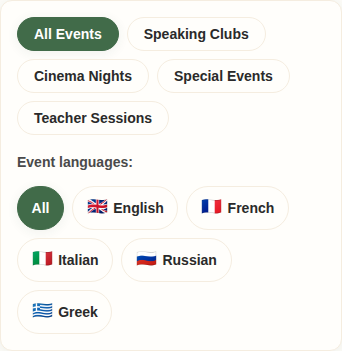
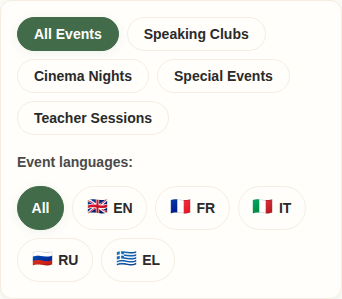
Event language filter: add-to-selection behaviour and compact mobile chips
- Update preset-to-custom transition logic in calendar.js so clicking a language chip when on 'My languages' toggles relative to stored My languages list
- Return to 'My languages' preset state when custom selection matches saved list
- Render compact flag + 2-letter uppercase code for mobile viewports (max-width: 640px)
- Extend scripts/test_event_filter.js with computeNextSelection transition tests
- Ensure zero horizontal scroll and fits in <= 2 rows at 390px viewport

diff --git a/shared/calendar/calendar.js b/shared/calendar/calendar.js
@@ -141,6 +141,43 @@
     return 'all';
   }
 
+  function areArraysEqual(arr1, arr2) {
+    if (!Array.isArray(arr1) || !Array.isArray(arr2)) return false;
+    if (arr1.length !== arr2.length) return false;
+    const s1 = [...arr1].sort();
+    const s2 = [...arr2].sort();
+    return s1.every((val, idx) => val === s2[idx]);
+  }
+
+  function computeNextSelection(currentSelection, clickedCode, storedMyLangs, myLangsExplicit) {
+    let baseLangs = [];
+    if (currentSelection === 'mine' && myLangsExplicit && Array.isArray(storedMyLangs) && storedMyLangs.length > 0) {
+      baseLangs = [...storedMyLangs];
+    } else if (Array.isArray(currentSelection)) {
+      baseLangs = [...currentSelection];
+    } else {
+      // 'all' preset or non-explicit 'mine'
+      return [clickedCode];
+    }
+
+    const idx = baseLangs.indexOf(clickedCode);
+    if (idx !== -1) {
+      baseLangs.splice(idx, 1);
+    } else {
+      baseLangs.push(clickedCode);
+    }
+
+    if (baseLangs.length === 0) {
+      return myLangsExplicit ? 'mine' : 'all';
+    }
+
+    if (myLangsExplicit && areArraysEqual(baseLangs, storedMyLangs)) {
+      return 'mine';
+    }
+
+    return baseLangs;
+  }
+
   function resolveSelection(selection, storedMyLangs, myLangsExplicit) {
     if (selection === 'all') return 'all';
     if (selection === 'mine') {
@@ -407,7 +444,8 @@
       const flag = LANG_FLAGS[code] || '';
       const localizedName = getLocalizedLangName(code);
       btn.setAttribute('aria-label', t('lang_chip_aria', { lang: localizedName }));
-      btn.innerHTML = `<span class="chip-flag" aria-hidden="true">${flag}</span> ${escapeHtml(localizedName)}`;
+      btn.setAttribute('title', localizedName);
+      btn.innerHTML = `<span class="chip-flag" aria-hidden="true">${flag}</span> <span class="chip-label-full">${escapeHtml(localizedName)}</span><span class="chip-label-short">${code.toUpperCase()}</span>`;
 
       btn.addEventListener('click', () => {
         toggleLanguageChip(code);
@@ -426,29 +464,9 @@
   }
 
   function toggleLanguageChip(code) {
-    let currentCustom = [];
-    if (Array.isArray(selectedLangSelection)) {
-      currentCustom = [...selectedLangSelection];
-    } else {
-      // Switching from preset to custom selection
-      currentCustom = [code];
-      setLanguageSelection(currentCustom);
-      return;
-    }
-
-    const idx = currentCustom.indexOf(code);
-    if (idx !== -1) {
-      currentCustom.splice(idx, 1);
-    } else {
-      currentCustom.push(code);
-    }
-
-    if (currentCustom.length === 0) {
-      const myInfo = getStoredMyLangs();
-      setLanguageSelection(myInfo.explicit ? 'mine' : 'all');
-    } else {
-      setLanguageSelection(currentCustom);
-    }
+    const myInfo = getStoredMyLangs();
+    const nextSel = computeNextSelection(selectedLangSelection, code, myInfo.langs, myInfo.explicit);
+    setLanguageSelection(nextSel);
   }
 
   function setupFilterListeners() {
@@ -1167,6 +1185,7 @@
     parseSelection,
     serializeSelection,
     resolveSelection,
+    computeNextSelection,
     eventMatches,
     getStoredMyLangs,
     initCalendar

diff --git a/scripts/test_event_filter.js b/scripts/test_event_filter.js
@@ -78,4 +78,32 @@ assert.strictEqual(calendar.eventMatches(mockEvents[0], ['en'], 'cinema-night'),
 assert.strictEqual(calendar.eventMatches(mockEvents[1], ['en'], 'cinema-night'), false);
 console.log('✔ Passed Combined Filter Matching tests.');
 
+// Test 9: computeNextSelection Preset and Transition Logic
+console.log('\nTest 9: computeNextSelection Transitions');
+
+// 9a: Clicking language not in My languages preset ADDS it
+const resAdd = calendar.computeNextSelection('mine', 'it', ['en', 'fr'], true);
+assert.deepStrictEqual(resAdd, ['en', 'fr', 'it'], '"mine" + "it" should add "it" to ["en", "fr"]');
+
+// 9b: Clicking language in My languages preset REMOVES it
+const resRem = calendar.computeNextSelection('mine', 'en', ['en', 'fr'], true);
+assert.deepStrictEqual(resRem, ['fr'], '"mine" + "en" should remove "en" leaving ["fr"]');
+
+// 9c: Clicking language from "all" selects only that language
+const resAll = calendar.computeNextSelection('all', 'it', ['en', 'fr'], true);
+assert.deepStrictEqual(resAll, ['it'], '"all" + "it" should set custom selection to ["it"]');
+
+// 9d: Custom selection matching My languages list returns to 'mine'
+const resMineMatch = calendar.computeNextSelection(['fr', 'it'], 'en', ['en', 'fr', 'it'], true);
+assert.strictEqual(resMineMatch, 'mine', 'Custom selection matching stored My languages array should switch to "mine"');
+
+// 9e: Deselecting last custom language returns to default
+const resEmpty = calendar.computeNextSelection(['en'], 'en', ['en', 'fr'], true);
+assert.strictEqual(resEmpty, 'mine', 'Deselecting last custom language returns to "mine" when explicit');
+
+const resEmptyNoMine = calendar.computeNextSelection(['en'], 'en', ['en'], false);
+assert.strictEqual(resEmptyNoMine, 'all', 'Deselecting last custom language returns to "all" when not explicit');
+
+console.log('✔ Passed computeNextSelection Transition tests.');
+
 console.log('\n=== ALL EVENT FILTER UNIT TESTS PASSED SUCCESSFULLY! ===\n');

diff --git a/styles/calendar.css b/styles/calendar.css
@@ -121,6 +121,19 @@
   line-height: 1;
 }
 
+.lang-chip .chip-label-short {
+  display: none;
+}
+
+@media (max-width: 640px) {
+  .lang-chip .chip-label-full {
+    display: none;
+  }
+  .lang-chip .chip-label-short {
+    display: inline;
+  }
+}
+
 /* ── Month Navigation Header ────────────────────────────────────────── */
 .month-nav-header {
   display: flex;
